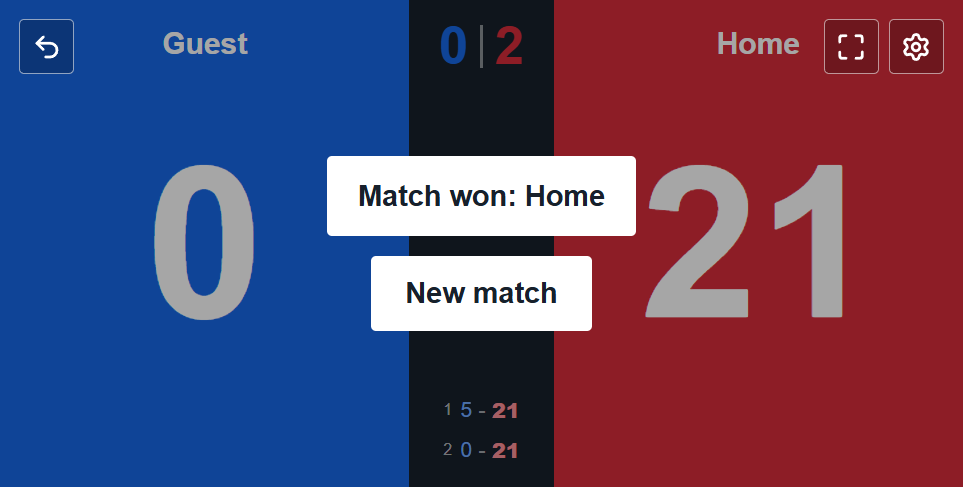
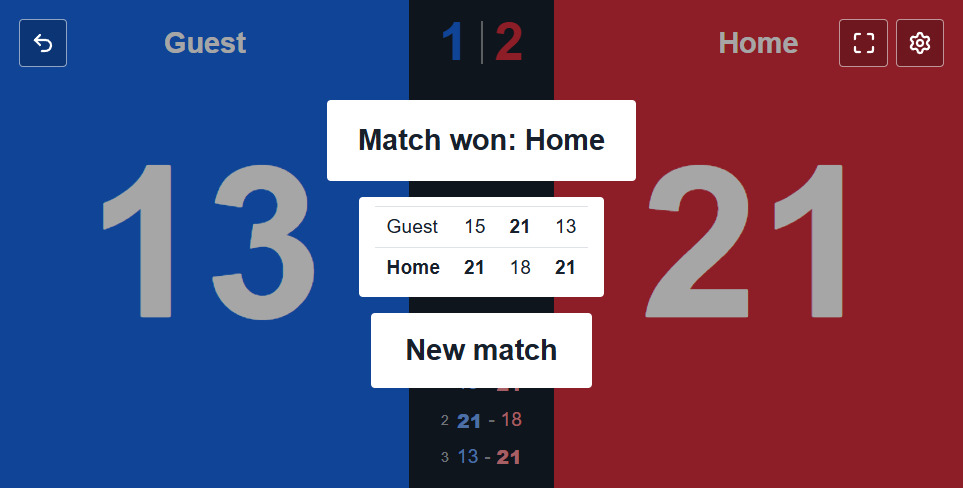
Implement GameScores component and update match-won screen to display game scores

diff --git a/src/test/App.test.tsx b/src/test/App.test.tsx
@@ -460,6 +460,43 @@ describe('badminton scoreboard UI', () => {
     expect(screen.getByRole('status')).toHaveTextContent('Match gewonnen: Heim')
   })
 
+  it('shows each team’s game scores on the match-won screen after ends switch', () => {
+    const scoringSystem = new ScoringSystem({
+      pointsToWin: 3,
+      pointCap: 3,
+      gamesToWin: 2,
+      maxGames: 3,
+      endSwitch: { gameNumber: 3, score: 2 },
+    })
+    render(<App locale="en" scoringSystem={scoringSystem} />)
+
+    clickTile(1)
+    winGame(0, 3)
+    fireEvent.click(screen.getByRole('button', { name: '2. Game' }))
+    winGame(0, 3)
+    fireEvent.click(screen.getByRole('button', { name: '3. Game' }))
+    clickTile(0, 2)
+    clickTile(1)
+
+    expect(screen.getByRole('status')).toHaveTextContent('Match won: Home')
+    const table = screen.getByRole('table', {
+      name: 'Scores by team, games in chronological order',
+    })
+    const rows = within(table).getAllByRole('row')
+    expect(rows.map((row) => within(row).getByRole('rowheader').textContent))
+      .toEqual(['Guest', 'Home'])
+    expect(rows.map((row) => within(row).getAllByRole('cell').map((cell) => cell.textContent)))
+      .toEqual([['1', '3', '0'], ['3', '0', '3']])
+    expect(rows.map((row) => within(row).getAllByRole('cell').map((cell) =>
+      cell.classList.contains('game-scores__score--winner'),
+    ))).toEqual([[false, true, false], [true, false, true]])
+    expect(rows[1]).toHaveClass('game-scores__winner')
+    expect(rows[0]).not.toHaveClass('game-scores__winner')
+
+    fireEvent.click(screen.getByRole('button', { name: 'Undo last action' }))
+    expect(screen.queryByRole('table')).not.toBeInTheDocument()
+  })
+
   it('retains and displays all five games in a best-of-five match', () => {
     render(<App scoringSystem={ScoringSystem.bestOfFiveTo11} />)
 
@@ -474,6 +511,10 @@ describe('badminton scoreboard UI', () => {
     expect(screen.getByRole('status')).toBeInTheDocument()
     expect(screen.getByLabelText('Ergebnisse abgeschlossener Spiele').children).toHaveLength(5)
     expect(screen.getByLabelText('Ergebnisse abgeschlossener Spiele')).toHaveTextContent('5')
+    const table = screen.getByRole('table')
+    expect(within(table).getAllByRole('row').map((row) =>
+      within(row).getAllByRole('cell').length,
+    )).toEqual([5, 5])
   })
 
   it('archives match details and restores them after remounting the app', async () => {
@@ -518,8 +559,8 @@ describe('badminton scoreboard UI', () => {
       'Home Team',
       'Guest Team',
     ])
-    expect(within(table).getAllByRole('row')[0]).toHaveClass('past-match__winner')
-    expect(within(table).getAllByRole('row')[1]).not.toHaveClass('past-match__winner')
+    expect(within(table).getAllByRole('row')[0]).toHaveClass('game-scores__winner')
+    expect(within(table).getAllByRole('row')[1]).not.toHaveClass('game-scores__winner')
     expect(within(table).getAllByRole('cell').map((cell) => cell.textContent)).toEqual([
       '21',
       '21',

diff --git a/src/components/PastMatchCard.tsx b/src/components/PastMatchCard.tsx
@@ -1,6 +1,7 @@
 import { Pencil, Trash2 } from 'lucide-react'
 import { translateDiscipline, type Locale, type Messages } from '../i18n'
 import type { PastMatchRecord } from './PastMatches'
+import GameScores from './GameScores'
 
 interface PastMatchCardProps {
   match: PastMatchRecord
@@ -30,8 +31,6 @@ export default function PastMatchCard({
   locale,
   messages,
 }: PastMatchCardProps) {
-  const homeWins = match.games.filter((game) => game.homeScore > game.guestScore).length
-  const guestWins = match.games.filter((game) => game.guestScore > game.homeScore).length
   const isManual = match.manual || match.id.startsWith('manual-')
 
   return (
@@ -83,22 +82,11 @@ export default function PastMatchCard({
       )}
       <div className="past-match__results">
         <div className="past-match__scores">
-          <table aria-label={messages.historyTableLabel}>
-            <tbody>
-              <tr className={homeWins > guestWins ? 'past-match__winner' : undefined}>
-                <th scope="row">{match.homeName}</th>
-                {match.games.map((game, index) => (
-                  <td key={`${match.id}-home-${index}`}>{game.homeScore}</td>
-                ))}
-              </tr>
-              <tr className={guestWins > homeWins ? 'past-match__winner' : undefined}>
-                <th scope="row">{match.guestName}</th>
-                {match.games.map((game, index) => (
-                  <td key={`${match.id}-guest-${index}`}>{game.guestScore}</td>
-                ))}
-              </tr>
-            </tbody>
-          </table>
+          <GameScores
+            label={messages.historyTableLabel}
+            teamNames={[match.homeName, match.guestName]}
+            games={match.games.map((game) => [game.homeScore, game.guestScore])}
+          />
         </div>
         <dl className="past-match__times">
           {match.startedAt !== undefined && (

diff --git a/src/App.css b/src/App.css
@@ -504,6 +504,40 @@
   max-width: calc(100% - 2rem);
 }
 
+.match-over-scores {
+  max-width: 100%;
+  overflow-x: auto;
+  padding: 0.6rem 1rem;
+  border-radius: 4px;
+  color: #17202b;
+  background: #fff;
+  font-size: clamp(1rem, 2vw, 1.5rem);
+}
+
+.game-scores {
+  width: max-content;
+  border-collapse: collapse;
+  font-variant-numeric: tabular-nums;
+  text-align: left;
+}
+
+.game-scores th,
+.game-scores td {
+  padding: 0.55rem 0.75rem;
+  border-top: 1px solid #dfe3e8;
+  font-weight: 400;
+}
+
+.game-scores td {
+  text-align: center;
+  white-space: nowrap;
+}
+
+.game-scores tr.game-scores__winner th,
+.game-scores td.game-scores__score--winner {
+  font-weight: 700;
+}
+
 .past-matches-page {
   display: grid;
   grid-template-rows: auto minmax(0, 1fr);
@@ -889,40 +923,6 @@
   min-width: 0;
   flex: 0 1 auto;
   overflow-x: auto;
-}
-
-.past-match__scores table {
-  width: max-content;
-  border-collapse: collapse;
-  font-variant-numeric: tabular-nums;
-  text-align: left;
-}
-
-.past-match__scores th,
-.past-match__scores td {
-  padding: 0.55rem 0.75rem;
-  border-top: 1px solid #dfe3e8;
-}
-
-.past-match__scores thead th {
-  color: #536071;
-  font-size: 0.8rem;
-  font-weight: 600;
-}
-
-.past-match__scores tbody th {
-  font-weight: 400;
-}
-
-.past-match__scores tbody td {
-  text-align: center;
-  white-space: nowrap;
-  font-weight: 400;
-}
-
-.past-match__scores tbody tr.past-match__winner th,
-.past-match__scores tbody tr.past-match__winner td {
-  font-weight: 700;
 }
 
 .next-game-button:focus-visible {

diff --git a/src/App.tsx b/src/App.tsx
@@ -3,6 +3,7 @@ import { createPortal } from 'react-dom'
 import { ArrowLeftRight, History, Maximize, Minimize, Settings, Undo2, X } from 'lucide-react'
 import Scoreboard, { type MatchCompletion, type ScoreboardSide } from './components/Scoreboard'
 import PastMatches, { type PastMatchRecord } from './components/PastMatches'
+import GameScores from './components/GameScores'
 import { ScoringSystem } from './components/scoringSystem'
 import {
   getLocale,
@@ -511,6 +512,17 @@ function App({ scoringSystem, locale: localeOverride }: AppProps) {
                 )
                   ? teamNames.home || messages.home
                   : teamNames.guest || messages.guest)}
+              </div>
+              <div className="match-over-scores">
+                <GameScores
+                  label={messages.historyTableLabel}
+                  teamNames={([0, 1] as const).map((side) =>
+                    side === scoreboard.homeSide
+                      ? teamNames.home || messages.home
+                      : teamNames.guest || messages.guest,
+                  ) as [string, string]}
+                  games={scoreboard.gameHistory.map((game) => game.scores)}
+                />
               </div>
               <button
                 className="next-game-button"

diff --git a/src/components/GameScores.tsx b/src/components/GameScores.tsx
@@ -1,0 +1,36 @@
+export type GameScore = [number, number]
+
+interface GameScoresProps {
+  teamNames: [string, string]
+  games: GameScore[]
+  label: string
+}
+
+export default function GameScores({ teamNames, games, label }: GameScoresProps) {
+  const gamesWon = [0, 1].map((team) =>
+    games.filter((game) => game[team] > game[1 - team]).length,
+  )
+
+  return (
+    <table className="game-scores" aria-label={label}>
+      <tbody>
+        {teamNames.map((teamName, team) => (
+          <tr
+            key={team}
+            className={gamesWon[team] > gamesWon[1 - team] ? 'game-scores__winner' : undefined}
+          >
+            <th scope="row">{teamName}</th>
+            {games.map((game, index) => (
+              <td
+                key={index}
+                className={game[team] > game[1 - team] ? 'game-scores__score--winner' : undefined}
+              >
+                {game[team]}
+              </td>
+            ))}
+          </tr>
+        ))}
+      </tbody>
+    </table>
+  )
+}

diff --git a/README.md b/README.md
@@ -17,7 +17,7 @@ Open the local URL printed by Vite.
 
 - Tap a team's side of the scoreboard to add a point.
 - Use **Undo** to reverse the latest scoring action.
-- When a game ends, choose the next game to continue the match. The match is saved to history when complete.
+- When a game ends, choose the next game to continue the match. The match-won screen shows each game's score, and the match is saved to history.
 - Use **Switch sides** before scoring if the teams need to change ends.
 - Use the fullscreen control for a larger court-side display.
 - Open **Settings** and choose **Past matches** to review completed results.
